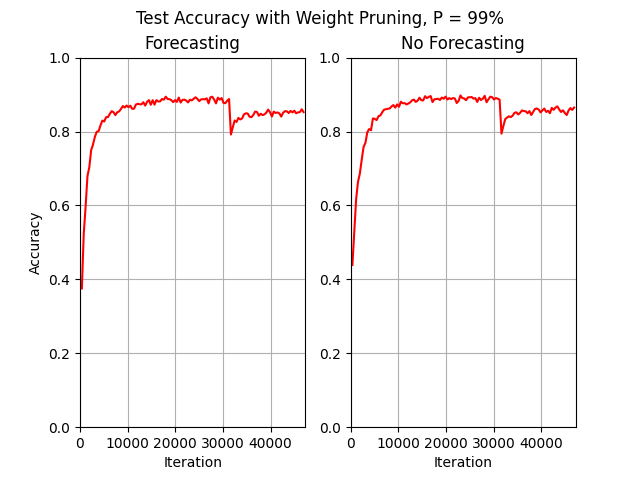
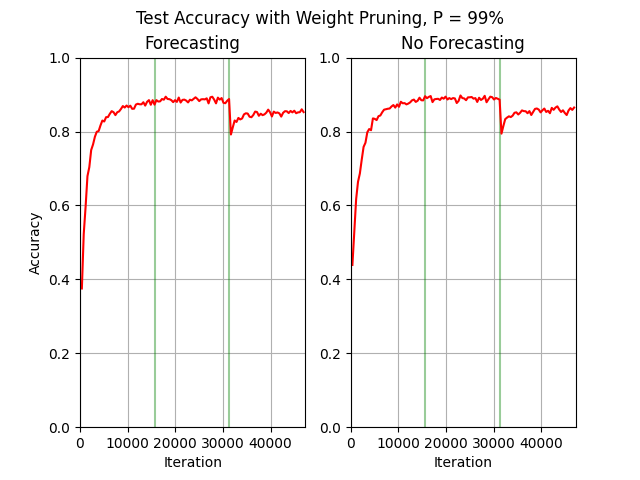
99 40 epochs with lines

diff --git a/Graphing.py b/Graphing.py
@@ -8,7 +8,7 @@ import matplotlib.pyplot as plt
 
 fig , (ax1, ax2) = plt.subplots(1, 2)
 fig.suptitle("Test Accuracy with Weight Pruning, P = 99%")
-vert = [160*391, 320*391]
+vert = [40*391, 80*391]
 for item in vert:
   ax1.plot([item, item], [-1, 1], "g-", alpha = .4)
   ax2.plot([item, item], [-1, 1], "g-", alpha = .4)
